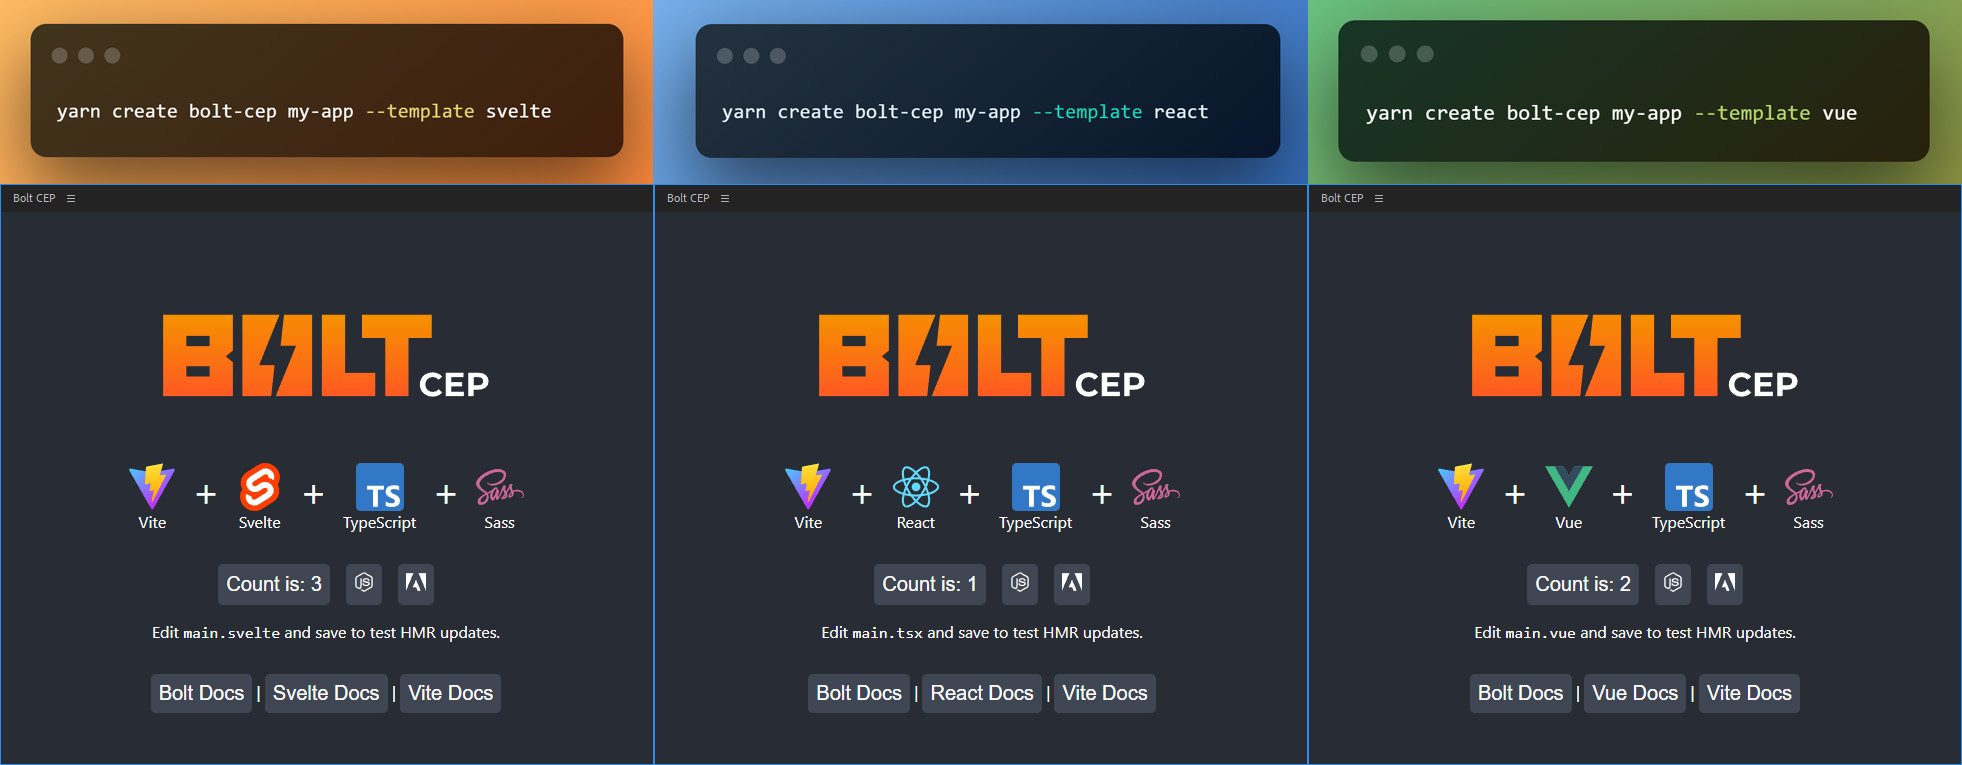
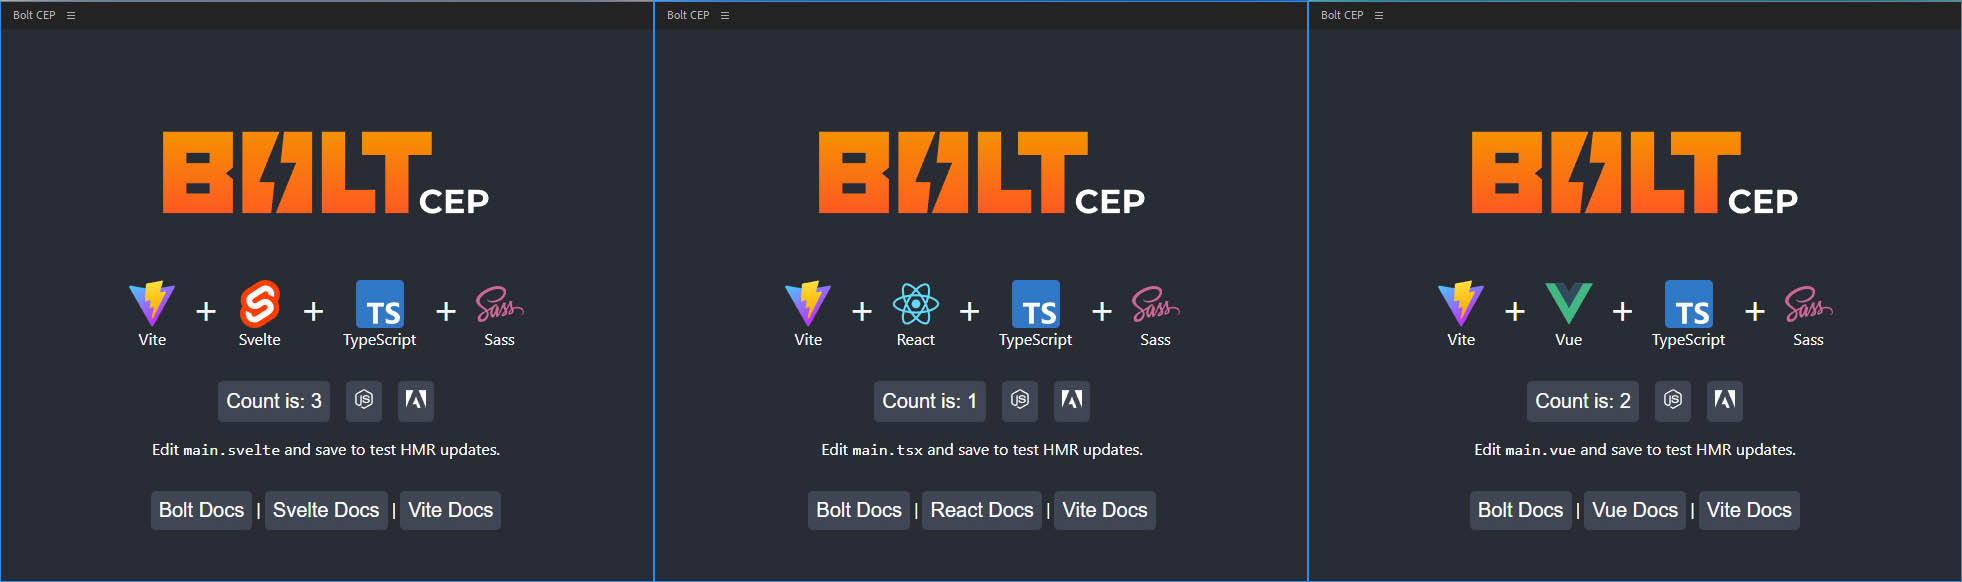
create Bolt CEP documentation update

diff --git a/README.md b/README.md
@@ -28,15 +28,9 @@ _Full Blog Post:_ https://hyperbrew.co/blog/bolt-cep-build-extensions-faster/
 
 <img src="src/js/assets/create-bolt-cep.jpg" alt="Bolt CEP">
 
-`yarn create bolt-cep myApp --template react`
+<img src="create-bolt-cep--demo.gif" alt="Bolt CEP">
 
-or
-
-`yarn create bolt-cep myApp --template vue`
-
-or
-
-`yarn create bolt-cep myApp --template svelte`
+`yarn create bolt-cep`
 
 - Create Extension
 
@@ -341,7 +335,7 @@ ReactDOM.render(
   3. `vite.es.config.ts` - Like the previous config, unless you've modified it yourself, you can just copy the contents of the latest into yours.
   4. `cep.config.ts` - Check if any new properties have been added that don't exist in your config.
   5. `src/js/lib` - Update this entire folder.
-  7. `src/jsx/index.ts` - Check if any new properties have been added that don't exist in your config.
+  6. `src/jsx/index.ts` - Check if any new properties have been added that don't exist in your config.
 
 ## Limitations
 
